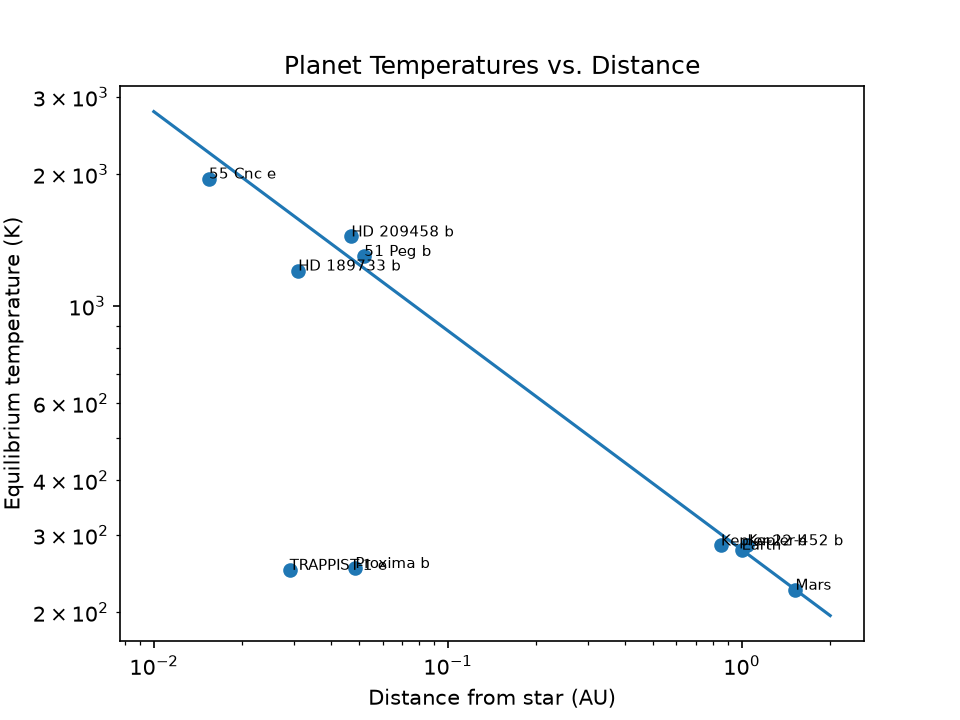
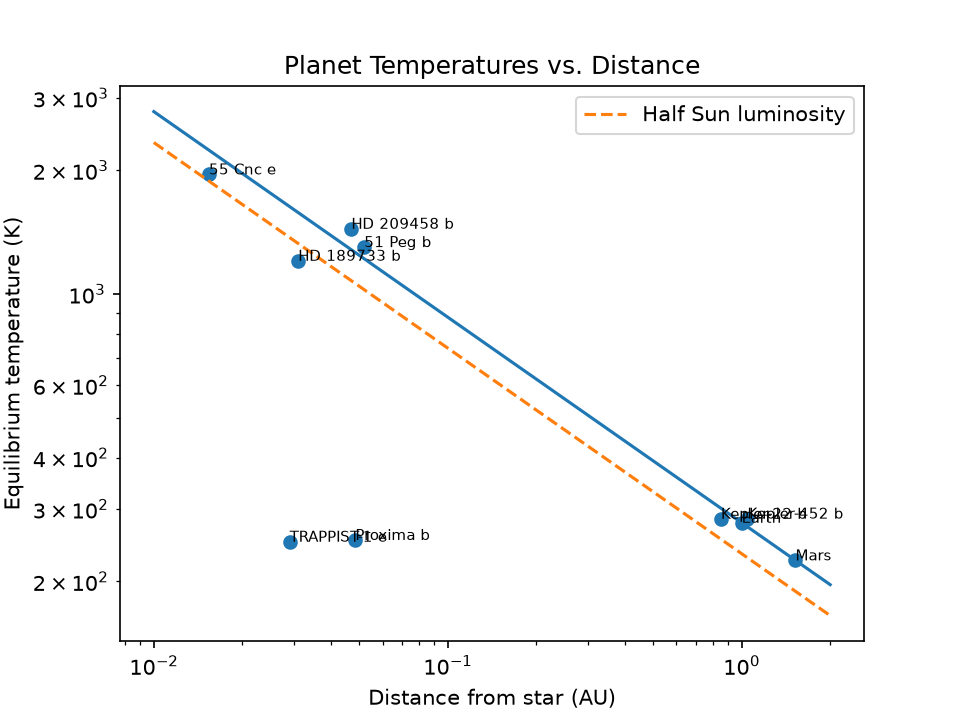
before the agent

diff --git a/module-4/planets_plot.py b/module-4/planets_plot.py
@@ -6,6 +6,7 @@ import matplotlib.pyplot as plt
 SIGMA = 5.67e-8          # Stefan-Boltzmann constant, W m^-2 K^-4
 L_SUN = 3.8e26           # solar luminosity, W
 AU = 1.496e11            # meters per AU
+L_STAR2 = 1.9e26         # Making the curve with half the luminosity 
 
 name = np.array(["Earth", "Mars", "HD 209458 b", "51 Peg b", "TRAPPIST-1 e",
                  "Kepler-22 b", "55 Cnc e", "HD 189733 b", "Kepler-452 b", "Proxima b"])
@@ -33,13 +34,17 @@ if __name__ == "__main__":
     T_curve = t_eq(L_SUN, d * AU)
     ax.plot(d, T_curve)
 
-   
+    T_half = t_eq(0.5 * L_SUN, d * AU)
+    ax.plot(d, T_half, label="Half Sun luminosity",
+
     ax.set_xscale("log")
     ax.set_yscale("log")
 
    
     for n, x, y in zip(name, dist, T):
-        ax.annotate(n, (x, y), fontsize=7)
+        ax.annotate(n, (x, y), fontsize=7)\
+
+    ax.legend()
 
     fig.savefig("module-4/planets.png", dpi=150)
     print("wrote module-4/planets.png")

diff --git a/module-3/pixelfixer.py b/module-3/pixelfixer.py
@@ -12,20 +12,24 @@ from matplotlib.pyplot import imread, imsave
 
 
 def pixelfix(I):
-    """Replace bad pixels with the color averaged from their neighbors.
 
-    Parameters
-    ----------
-    I : ndarray, shape (M, N, 3)
-        A color image array in RGB format, values between 0 and 1.
-        A bad pixel has red = 1, green = 0, blue = 0.
+    rows, cols, colors = I.shape
 
-    Returns
-    -------
-    Iq : ndarray, same shape as I
-        A copy of the image with the bad pixels fixed.
-    """
-    Iq = I.copy()
+    bad_count = 0
+
+    for i in range(rows):
+        for j in range(cols):
+
+            if (I[i, j, 0] == 1 and
+                I[i, j, 1] == 0 and
+                I[i, j, 2] == 0):
+
+                bad_count += 1
+
+    print("Bad pixels found:", bad_count)
+
+    return I
+
 
     ### YOUR WORK GOES HERE (with the agent, under the Protocol, in stages:
     ### 1. find the bad pixels and print how many;
